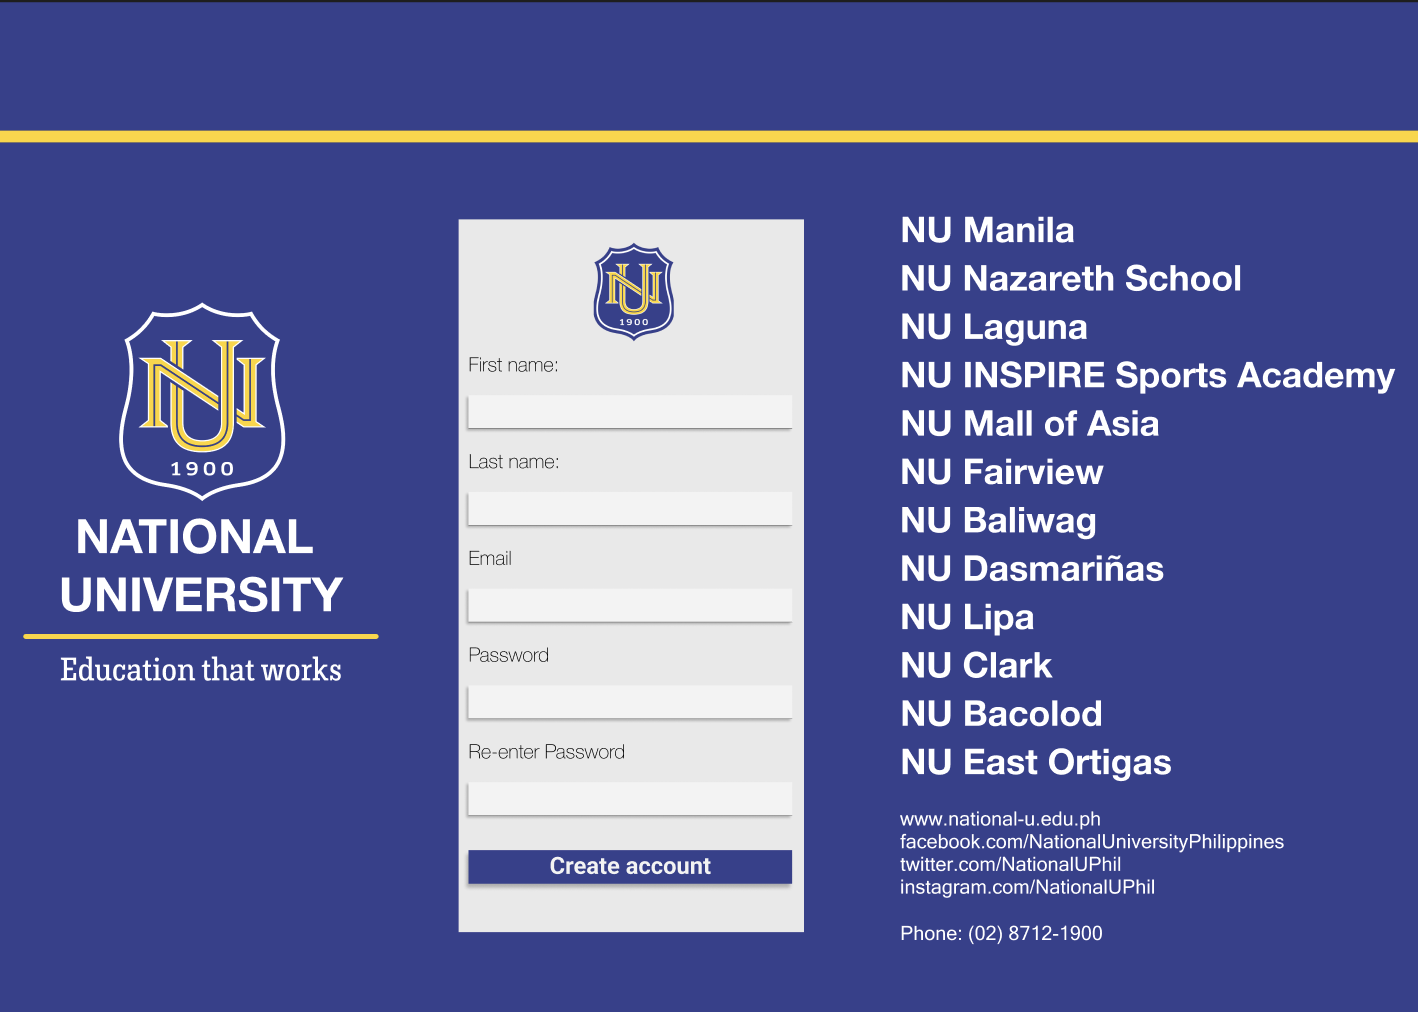
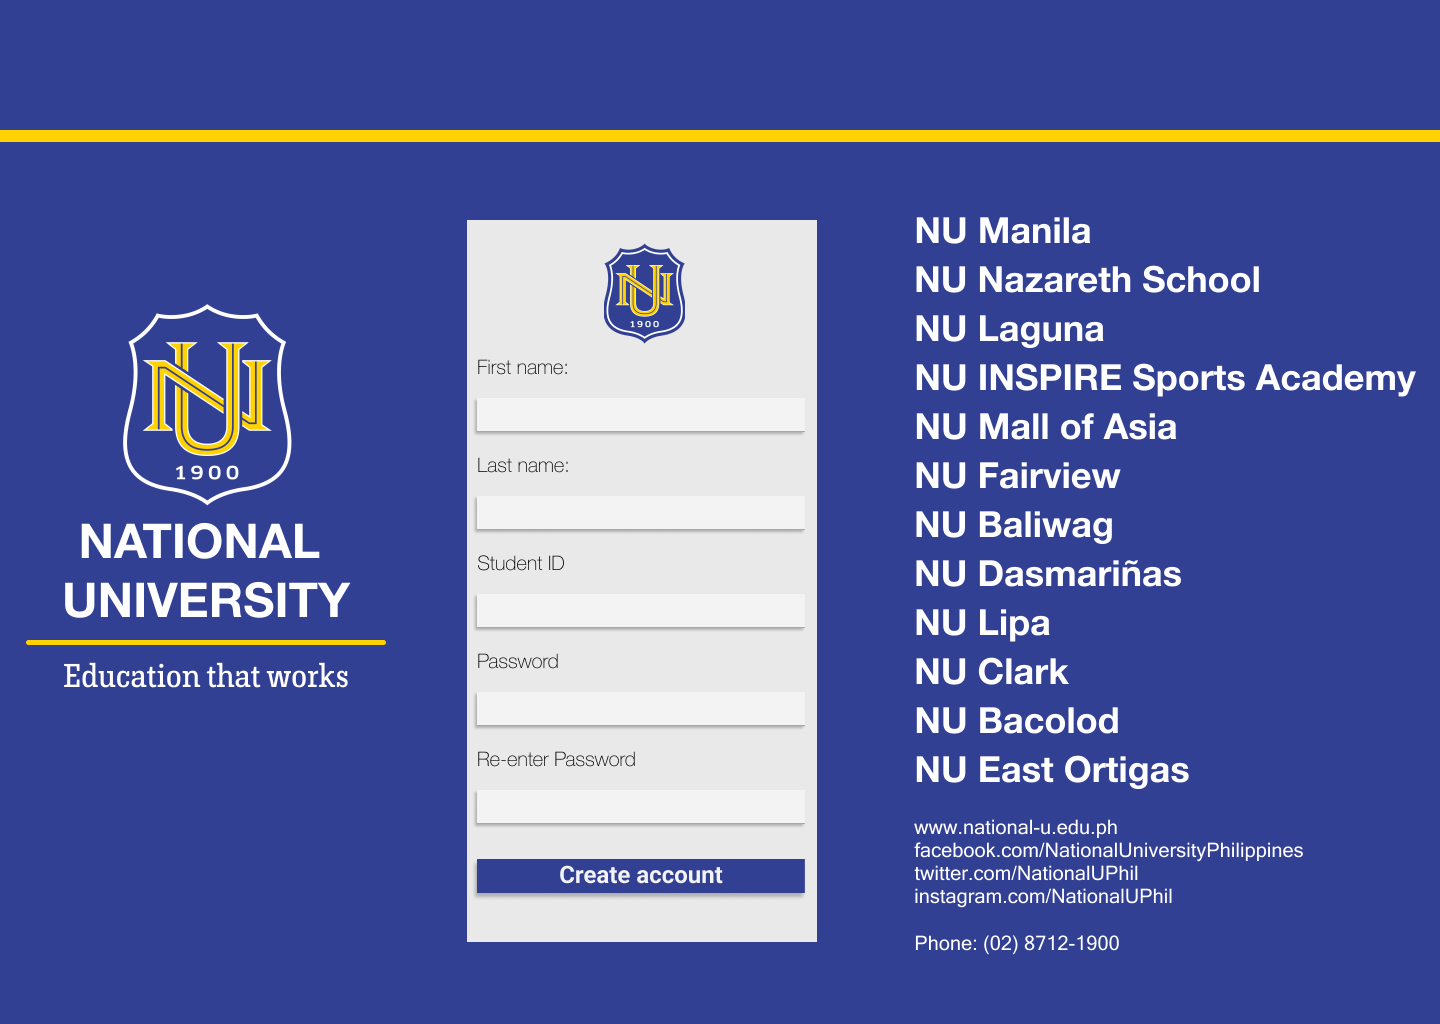
Commit

diff --git a/src/SignUpPage.java b/src/SignUpPage.java
@@ -21,6 +21,7 @@ public class SignUpPage extends javax.swing.JFrame {
         jLabel2 = new javax.swing.JLabel();
 
         setDefaultCloseOperation(javax.swing.WindowConstants.EXIT_ON_CLOSE);
+        setPreferredSize(new java.awt.Dimension(1440, 1024));
 
         jPanel1.setLayout(new org.netbeans.lib.awtextra.AbsoluteLayout());
 
@@ -30,10 +31,10 @@ public class SignUpPage extends javax.swing.JFrame {
                 jTextField2ActionPerformed(evt);
             }
         });
-        jPanel1.add(jTextField2, new org.netbeans.lib.awtextra.AbsoluteConstraints(460, 390, 340, 40));
+        jPanel1.add(jTextField2, new org.netbeans.lib.awtextra.AbsoluteConstraints(470, 390, 340, 50));
 
         jTextField3.setText("Enter Last Name");
-        jPanel1.add(jTextField3, new org.netbeans.lib.awtextra.AbsoluteConstraints(460, 490, 340, 40));
+        jPanel1.add(jTextField3, new org.netbeans.lib.awtextra.AbsoluteConstraints(470, 490, 340, 50));
 
         jTextField4.setText("Enter Email");
         jTextField4.addActionListener(new java.awt.event.ActionListener() {
@@ -41,13 +42,18 @@ public class SignUpPage extends javax.swing.JFrame {
                 jTextField4ActionPerformed(evt);
             }
         });
-        jPanel1.add(jTextField4, new org.netbeans.lib.awtextra.AbsoluteConstraints(460, 580, 340, 50));
+        jPanel1.add(jTextField4, new org.netbeans.lib.awtextra.AbsoluteConstraints(470, 580, 340, 50));
 
         jPasswordField1.setText("jPasswordField1");
-        jPanel1.add(jPasswordField1, new org.netbeans.lib.awtextra.AbsoluteConstraints(460, 780, 340, 40));
+        jPanel1.add(jPasswordField1, new org.netbeans.lib.awtextra.AbsoluteConstraints(470, 780, 340, 50));
 
         jPasswordField2.setText("jPasswordField1");
-        jPanel1.add(jPasswordField2, new org.netbeans.lib.awtextra.AbsoluteConstraints(460, 680, 340, 40));
+        jPasswordField2.addActionListener(new java.awt.event.ActionListener() {
+            public void actionPerformed(java.awt.event.ActionEvent evt) {
+                jPasswordField2ActionPerformed(evt);
+            }
+        });
+        jPanel1.add(jPasswordField2, new org.netbeans.lib.awtextra.AbsoluteConstraints(470, 680, 340, 50));
 
         jButton1.setBackground(new java.awt.Color(53, 64, 142));
         jButton1.setFont(new java.awt.Font("Helvetica Neue", 1, 24)); // NOI18N
@@ -59,10 +65,10 @@ public class SignUpPage extends javax.swing.JFrame {
                 jButton1ActionPerformed(evt);
             }
         });
-        jPanel1.add(jButton1, new org.netbeans.lib.awtextra.AbsoluteConstraints(460, 840, 340, 50));
+        jPanel1.add(jButton1, new org.netbeans.lib.awtextra.AbsoluteConstraints(470, 850, 340, 60));
 
-        jLabel2.setIcon(new javax.swing.ImageIcon(getClass().getResource("/img/Screenshot 2024-05-31 at 16.05.51.png"))); // NOI18N
-        jPanel1.add(jLabel2, new org.netbeans.lib.awtextra.AbsoluteConstraints(0, 0, 1420, 1010));
+        jLabel2.setIcon(new javax.swing.ImageIcon(getClass().getResource("/img/SignUp.png"))); // NOI18N
+        jPanel1.add(jLabel2, new org.netbeans.lib.awtextra.AbsoluteConstraints(0, 0, 1440, -1));
 
         javax.swing.GroupLayout layout = new javax.swing.GroupLayout(getContentPane());
         getContentPane().setLayout(layout);
@@ -89,6 +95,10 @@ public class SignUpPage extends javax.swing.JFrame {
     private void jTextField2ActionPerformed(java.awt.event.ActionEvent evt) {//GEN-FIRST:event_jTextField2ActionPerformed
         // TODO add your handling code here:
     }//GEN-LAST:event_jTextField2ActionPerformed
+
+    private void jPasswordField2ActionPerformed(java.awt.event.ActionEvent evt) {//GEN-FIRST:event_jPasswordField2ActionPerformed
+        // TODO add your handling code here:
+    }//GEN-LAST:event_jPasswordField2ActionPerformed
 
     
     public static void main(String args[]) {
